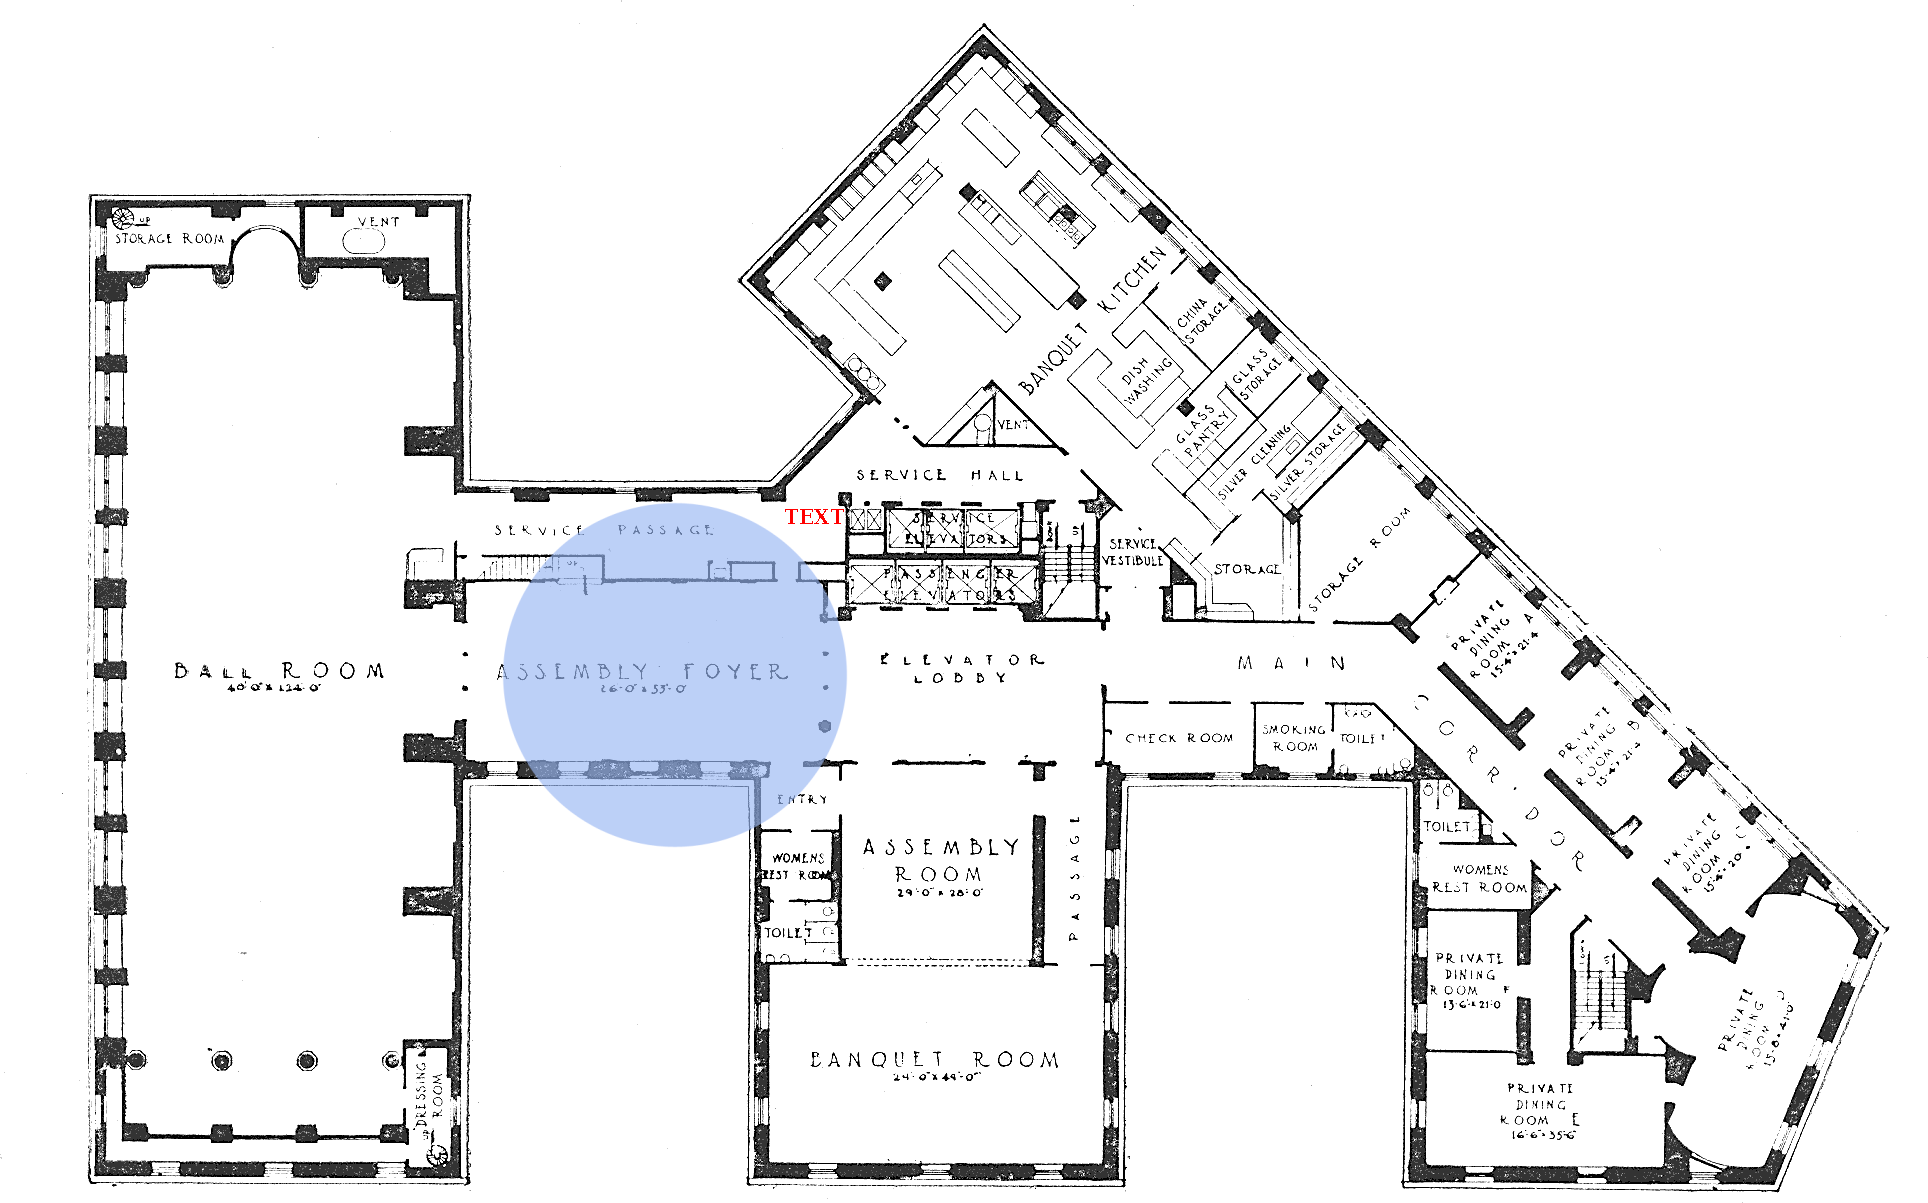
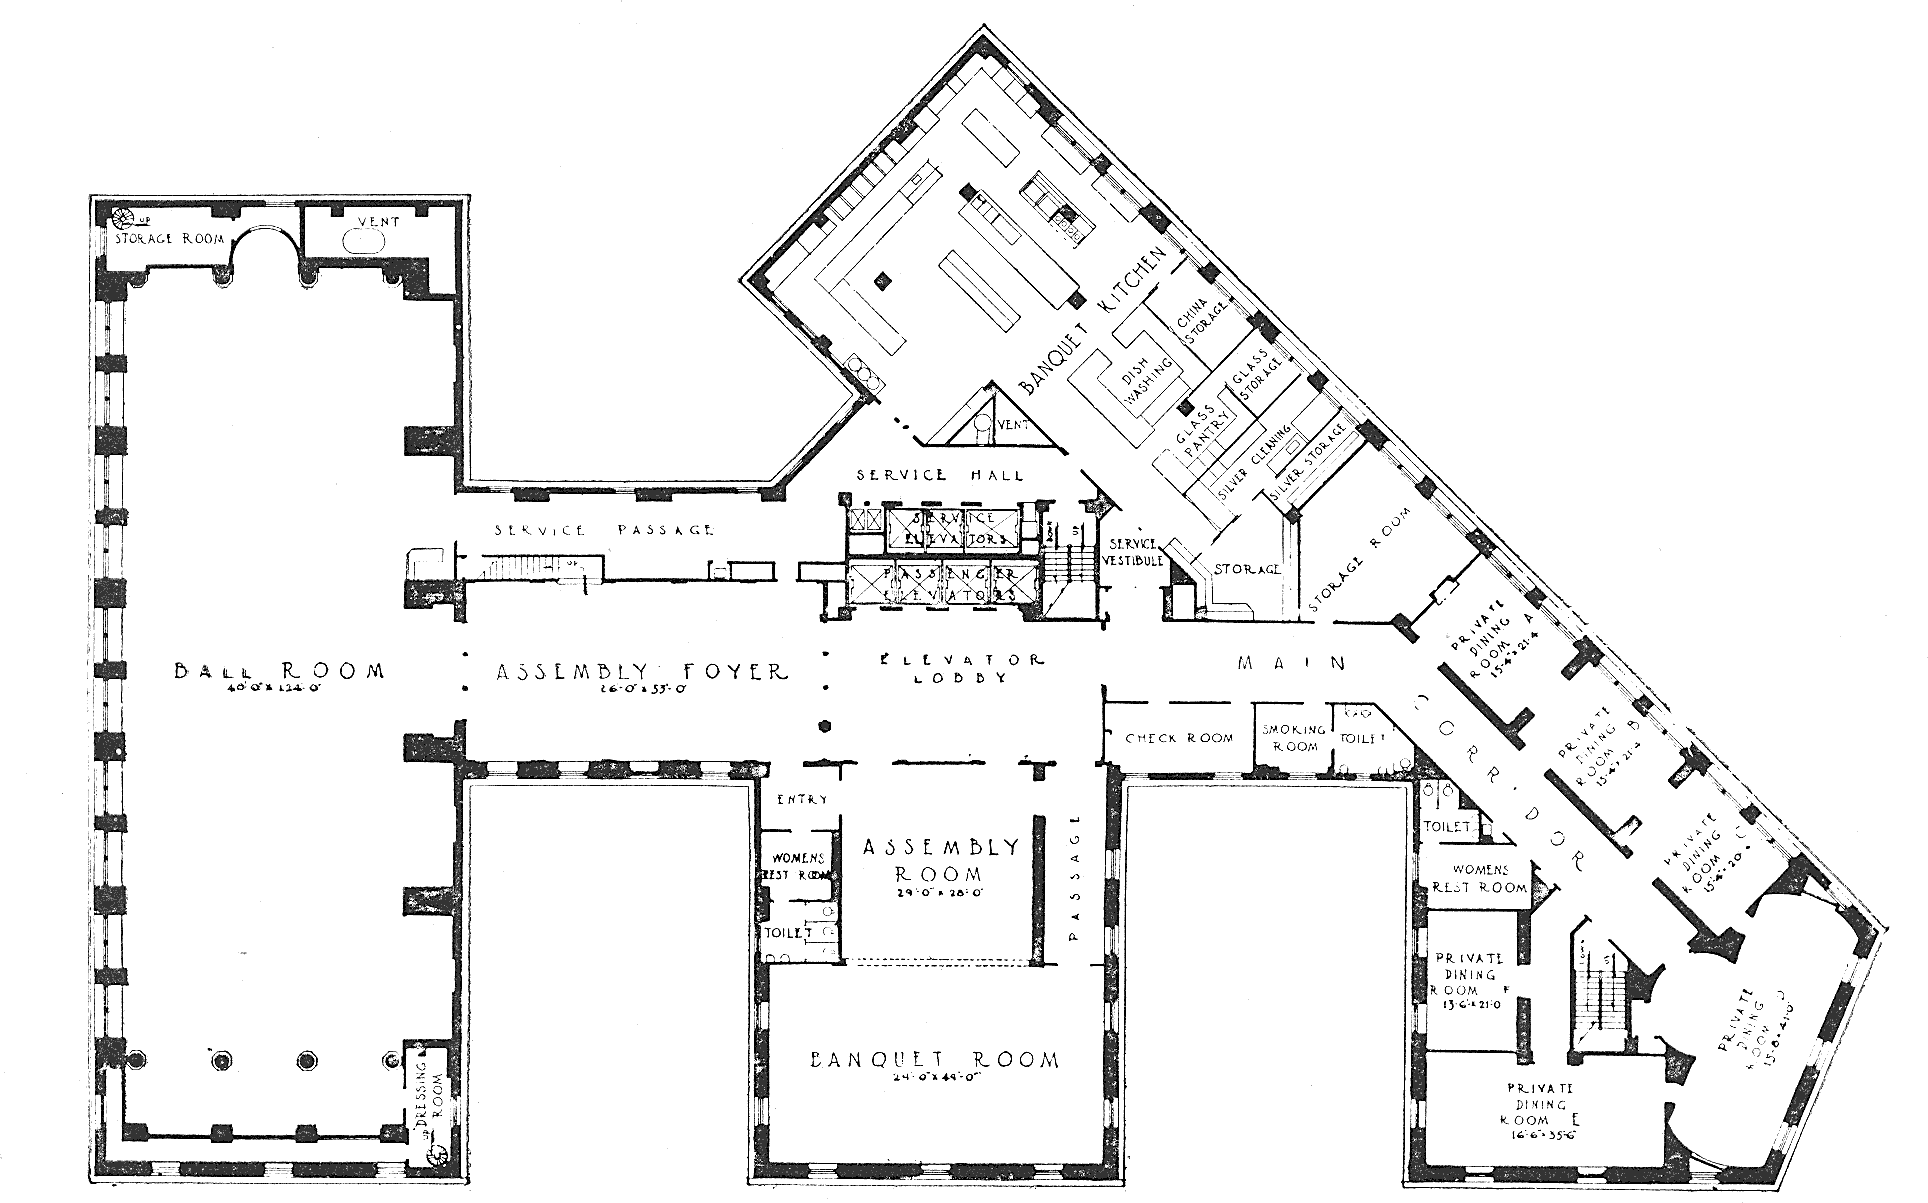
drawBackgroundImage

Changed region(s): [[0.249, 0.3998, 0.4668, 0.7074]]

diff --git a/src/eu/deustotech/deusto/drawing/MyJFrame.java b/src/eu/deustotech/deusto/drawing/MyJFrame.java
@@ -35,7 +35,16 @@ public class MyJFrame extends JFrame {
 	private Image image;
 	private ImageIcon imageIcon;
 
-	public MyJFrame(boolean fullscreen) {
+	
+	/**
+	 * Constructor. It creates a JFrame with an Image on it taking into
+	 * account the fullscreen and visible parameters.
+	 * 
+	 * @param fullscreen
+	 * @param visible
+	 * @throws IOException 
+	 */
+	public MyJFrame(boolean fullscreen, boolean visible) {
 		super("@Test");
 
 		this.setDefaultCloseOperation(JFrame.DISPOSE_ON_CLOSE);
@@ -47,7 +56,13 @@ public class MyJFrame extends JFrame {
 			setBounds(0, 0, screenSize.width, screenSize.height);
 		}
 
-		overlayImages();
+//		try {
+//			drawBackgroundImage(ImageIO.read(new File(BACKGROUND_IMAGE)));
+//		} catch (IOException e) {
+//			e.printStackTrace();
+//		}
+		
+//		overlayImages();
 
 		image = Toolkit.getDefaultToolkit().getImage(RESULT);
 //		image = resizeImage(image, new Dimension(300,
@@ -56,10 +71,29 @@ public class MyJFrame extends JFrame {
 
 		JLabel label = new JLabel("");
 		label.setIcon(imageIcon);
-
+//
 		getContentPane().add(label, BorderLayout.CENTER);
 
-		this.setVisible(true);
+		this.setVisible(visible);
+	}
+
+	/**
+	 * Given a BufferdImage this method draws it over this JFrame and
+	 * generates a result.png file
+	 * 
+	 * @param backgroundImage
+	 * @throws IOException
+	 */
+	public void drawBackgroundImage(BufferedImage backgroundImage) throws IOException {
+		try {
+			// paint both images, preserving the alpha channels
+			Graphics graphics = backgroundImage.getGraphics();
+			graphics.drawImage(backgroundImage, 0, 0, null);
+
+			ImageIO.write(backgroundImage, FORMAT_PNG, new File(RESULT));
+		} catch (IOException e) {
+			e.printStackTrace();
+		}
 	}
 
 	/**
@@ -143,7 +177,7 @@ public class MyJFrame extends JFrame {
 			graphics.drawImage(backgroundImage, 0, 0, null);
 
 			overlayImages(foregroundImage, graphics);
-			//
+			
 
 			ImageIO.write(combined, FORMAT_PNG, new File(RESULT));
 		} catch (IOException e) {

diff --git a/src/eu/deustotech/deusto/drawing/Main.java b/src/eu/deustotech/deusto/drawing/Main.java
@@ -1,5 +1,9 @@
 package eu.deustotech.deusto.drawing;
 
+import java.io.File;
+import java.io.IOException;
+
+import javax.imageio.ImageIO;
 import javax.swing.JFrame;
 
 public class Main extends JFrame {
@@ -9,17 +13,24 @@ public class Main extends JFrame {
 	 */
 	private static final long serialVersionUID = 1L;
 
+	private static final String BACKGROUND_IMAGE = "img/plan.png"; // Background
+	
 	public static void main(String[] args) {
-		MyJFrame frame = new MyJFrame(true);
+		MyJFrame frame = new MyJFrame(true, true);
 		
 		//TODO:
 		//1. Show a image in a frame
+		try {
+			frame.drawBackgroundImage(ImageIO.read(new File(BACKGROUND_IMAGE)));
+		} catch (IOException e) {
+			e.printStackTrace();
+		}
 		//2. Put the image fullscreen
 		//3. resize image
 		//4. overlay images
+		//5. Change colors
 		
 //		frame.resizeImage(null, new Dimension(300, 300), true);
 		
-		frame.setVisible(true);
 	}
 }
